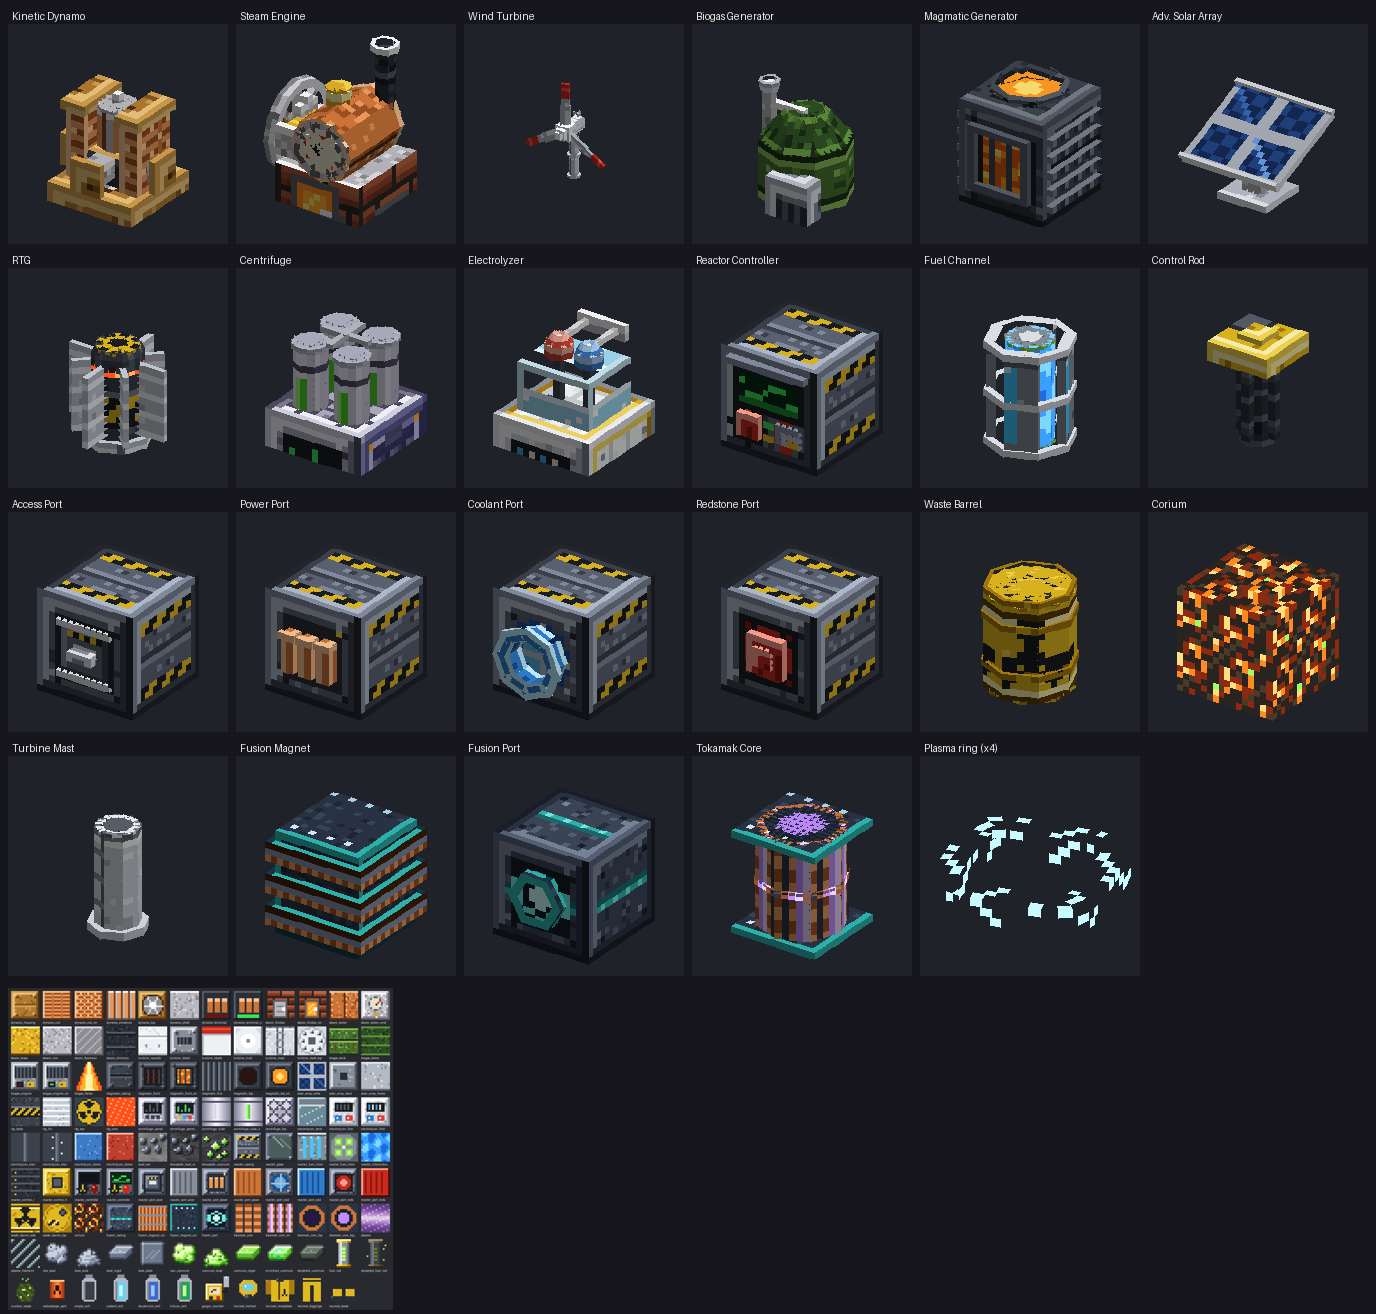
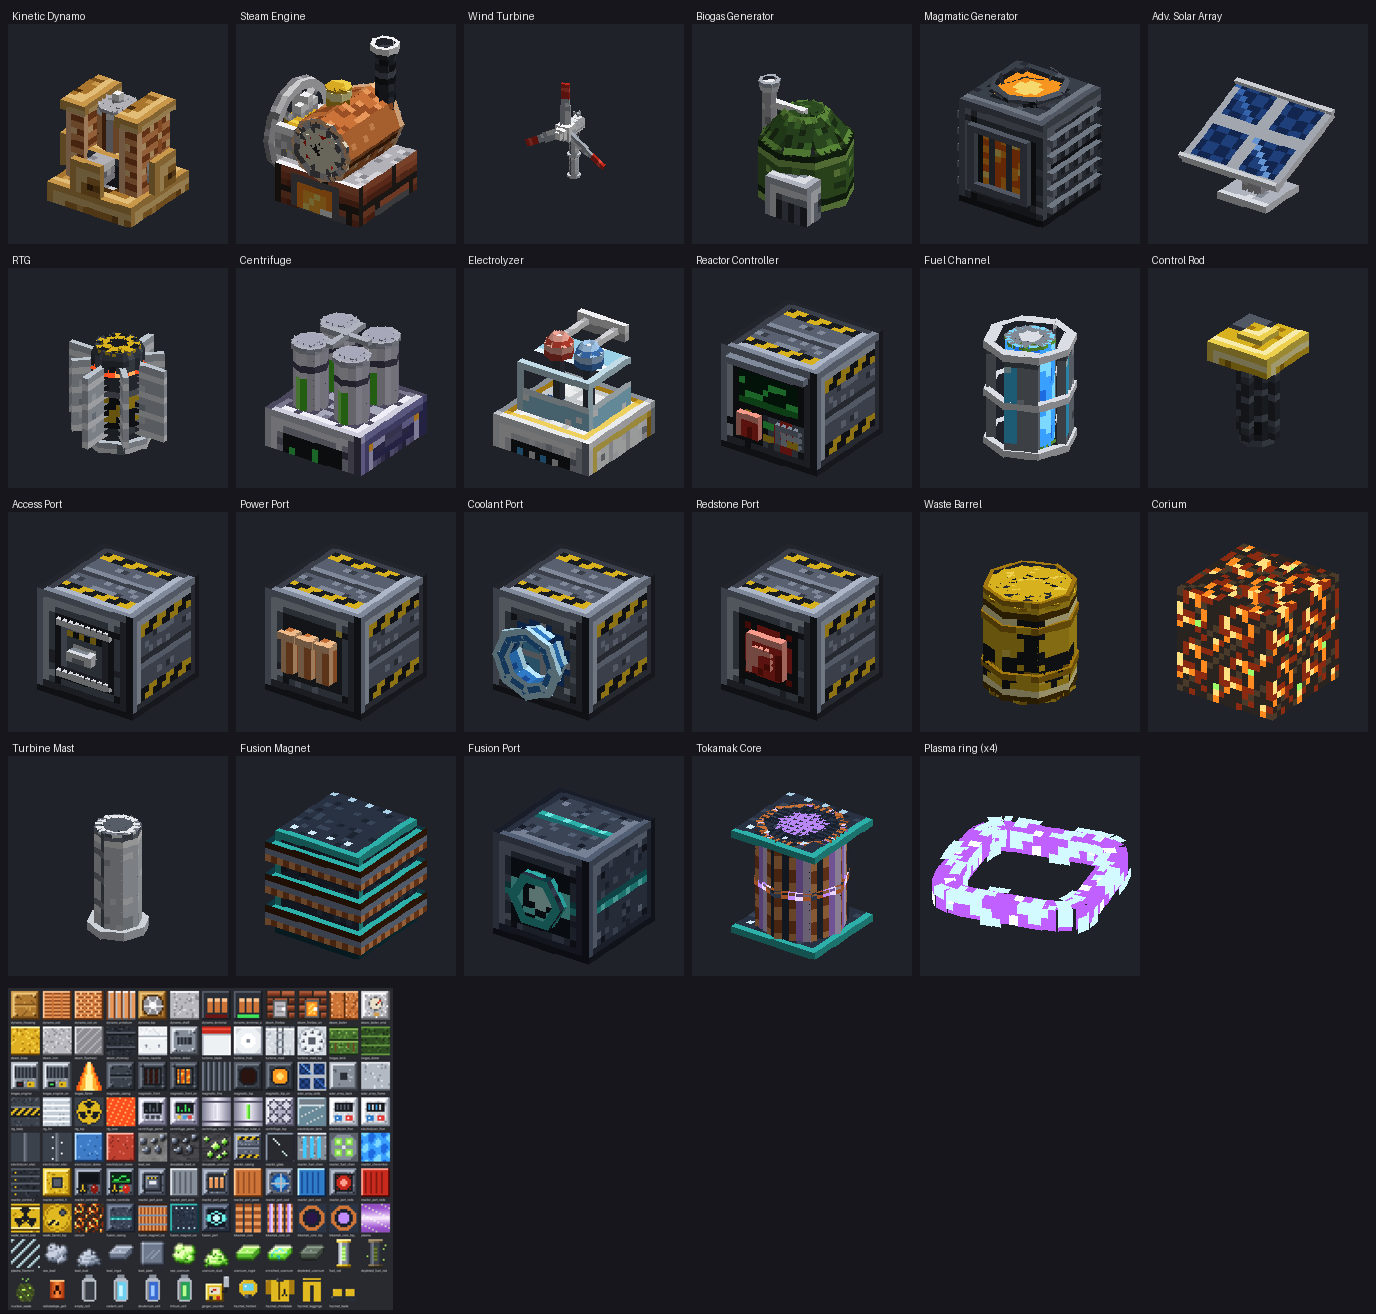
Power expansion: kinetic dynamo, steam engine, wind turbine, biogas, magmatic, solar array, fission reactor with radiation/hazmat/meltdown, RTG, fusion tokamak (planets WIP included)
Claude-Session: https://claude.ai/code/session_01SnzqTvBuYSofLuoR29zXXc

diff --git a/tools/features/power_textures.py b/tools/features/power_textures.py
@@ -596,14 +596,13 @@ def reactor_casing(rng):
 
 
 def reactor_glass():
-    """Thick leaded glass: almost clear with a faint green tint, a thin frame and two glints."""
+    """Thick leaded glass: a thin lead frame and a few glints on clear pane (cutout, so what burns
+    behind it, like a tokamak's plasma, always shows through)."""
     t = tex()
-    for y in range(16):
-        for x in range(16):
-            t.set(x, y, C("#C8F0E0", 38))
     for i in range(3, 7):
-        t.set(i + 1, i, C("#FFFFFF", 120))
-        t.set(i + 7, i + 6, C("#FFFFFF", 90))
+        t.set(i + 1, i, C("#E8FFF6"))
+    for i in range(9, 12):
+        t.set(i, i + 1, C("#D0F4E8"))
     bevel(t, 0, 0, 15, 15, LEAD[3], LEAD[0])
     for x, y in ((0, 0), (15, 0), (0, 15), (15, 15)):
         t.set(x, y, LEAD[1])
@@ -825,13 +824,14 @@ def tokamak_top(rng, on):
 
 
 def plasma():
+    """The plasma: a white-hot core fading to violet at the edge (translucent, drawn full-bright)."""
     t = tex()
     for y in range(16):
         for x in range(16):
             v = abs(y - 7.5) / 8
-            a = int(235 - 150 * v)
-            col = mix(C("#FFE8FF"), C("#B050FF"), min(1, v * 1.6))
-            if (x + y * 2) % 7 == 0:
+            a = int(255 - 90 * v)
+            col = mix(C("#FFF4FF"), C("#C060FF"), min(1, v * 1.5))
+            if (x * 3 + y * 5) % 11 == 0:
                 col = C("#FFFFFF")
             t.set(x, y, (col[0], col[1], col[2], a))
     return t
@@ -842,7 +842,7 @@ def plasma_filament():
     for y in range(16):
         for x in range(16):
             if (x + y) % 6 in (0, 1):
-                t.set(x, y, (200, 250, 255, 190 if (x + y) % 6 == 0 else 110))
+                t.set(x, y, (210, 250, 255, 230 if (x + y) % 6 == 0 else 150))
     return t
 
 
@@ -1001,7 +1001,7 @@ def hazmat_armor():
     for y in range(32):
         for x in range(64):
             r = rng.random()
-            main.set(x, y, Y[1] if r < 0.06 else Y[3] if r < 0.1 else Y[2])
+            main.set(x, y, mix(Y[2], Y[1], 0.35) if r < 0.03 else mix(Y[2], Y[3], 0.4) if r < 0.06 else Y[2])
     # visor on the helmet front (8..15, 8..15)
     main.rect(9, 10, 14, 13, C("#5AC8E0"))
     main.rect(10, 11, 11, 11, C("#FFFFFF"))
@@ -1021,7 +1021,7 @@ def hazmat_armor():
     for y in range(32):
         for x in range(64):
             r = rng.random()
-            legs.set(x, y, Y[1] if r < 0.06 else Y[3] if r < 0.1 else Y[2])
+            legs.set(x, y, mix(Y[2], Y[1], 0.35) if r < 0.03 else mix(Y[2], Y[3], 0.4) if r < 0.06 else Y[2])
     # boots region of the main layer (legs 0..15, 16..31) darker soles
     for x in range(0, 16):
         for y in (30, 31):

diff --git a/src/main/java/net/juli2kapo/factoryascent/nuclear/ReactorControllerBlockEntity.java b/src/main/java/net/juli2kapo/factoryascent/nuclear/ReactorControllerBlockEntity.java
@@ -297,7 +297,11 @@ public class ReactorControllerBlockEntity extends BlockEntity implements MenuPro
             for (BlockPos p : structure.interiorBlocks()) level.setBlock(p, net.minecraft.world.level.block.Blocks.AIR.defaultBlockState(), Block.UPDATE_ALL);
             if (power > 0) level.explode(null, c.getX() + 0.5, c.getY() + 0.5, c.getZ() + 0.5, power, true, Level.ExplosionInteraction.BLOCK);
             if (corium) {
-                for (BlockPos p : channels) pour(level, p);        // the melt runs down into a pool
+                // the melt runs down into a pool on the crater floor
+                for (int i = 0; i < channels.size(); i++) {
+                    int[] o = POOL[i % POOL.length];
+                    pour(level, c.offset(o[0], 0, o[1]));
+                }
                 var random = level.getRandom();
                 for (int i = 0; i < 2 + channels.size() / 4; i++) {  // and splashes out of the breach
                     pour(level, c.offset(random.nextInt(9) - 4, random.nextInt(3), random.nextInt(9) - 4));
@@ -309,6 +313,10 @@ public class ReactorControllerBlockEntity extends BlockEntity implements MenuPro
         }
         if (!isRemoved()) updateActive(level, false);
     }
+
+    /** Where the molten core spreads, from the middle of the crater outwards. */
+    private static final int[][] POOL = {{0, 0}, {1, 0}, {0, 1}, {-1, 0}, {0, -1}, {1, 1}, {-1, 1}, {1, -1}, {-1, -1}, {2, 0}, {0, 2},
+            {-2, 0}, {0, -2}, {2, 1}, {1, 2}, {-1, 2}, {-2, 1}, {-2, -1}, {-1, -2}, {1, -2}, {2, -1}};
 
     /** Drops a block of corium from {@code p} down onto whatever is below. */
     private static void pour(ServerLevel level, BlockPos p) {

diff --git a/src/main/java/net/juli2kapo/factoryascent/space/client/StationScreens.java b/src/main/java/net/juli2kapo/factoryascent/space/client/StationScreens.java
@@ -158,18 +158,18 @@ final class StationScreens {
             int[] earth = onOrbit(cx, cy, earthR, t * 2 * Math.PI / 8 + 0.4);
             int[] mars = onOrbit(cx, cy, marsR, t * 2 * Math.PI / 15 + 2.2);
             int[] jupiter = onOrbit(cx, cy, jupiterR, t * 2 * Math.PI / 95 + 4.0);
-            int[] moon = onOrbit(earth[0], earth[1], 7, t * 2 * Math.PI * 1.2);
-            int[] io = onOrbit(jupiter[0], jupiter[1], 9, t * 2 * Math.PI * 3);
+            int[] moon = onOrbit(earth[0], earth[1], 10, t * 2 * Math.PI * 1.2);
+            int[] io = onOrbit(jupiter[0], jupiter[1], 11, t * 2 * Math.PI * 3);
             dot(g, earth[0], earth[1], 3, 0xFF3E8EE8);
             dot(g, moon[0], moon[1], 1, Planet.MOON.color);
             dot(g, mars[0], mars[1], 2, Planet.MARS.color);
             dot(g, jupiter[0], jupiter[1], 5, 0xFFD8B080);
             dot(g, io[0], io[1], 1, Planet.IO.color);
             label(g, Component.translatable("planet.factoryascent.earth"), earth[0], earth[1] + 5);
-            label(g, Planet.MOON.displayName(), moon[0], moon[1] - 11);
+            g.text(font, Planet.MOON.displayName(), moon[0] + 4, moon[1] - 4, MUTED, false);
             label(g, Planet.MARS.displayName(), mars[0], mars[1] + 4);
             label(g, Component.translatable("planet.factoryascent.jupiter"), jupiter[0], jupiter[1] + 7);
-            label(g, Planet.IO.displayName(), io[0], io[1] - 11);
+            g.text(font, Planet.IO.displayName(), io[0] + 4, io[1] - 4, MUTED, false);
             // you are here
             int[] here = where(chart.here(), earth, moon, mars, io);
             if (here != null && (mc.player == null || mc.player.tickCount / 10 % 2 == 0)) {

diff --git a/src/main/java/net/juli2kapo/factoryascent/space/SuitItems.java b/src/main/java/net/juli2kapo/factoryascent/space/SuitItems.java
@@ -148,6 +148,9 @@ public final class SuitItems {
         public void appendHoverText(ItemStack stack, TooltipContext context, TooltipDisplay display,
                                     Consumer<Component> tooltip, TooltipFlag flag) {
             tooltip.accept(oxygenLine(oxygen(stack)));
+            if (net.juli2kapo.factoryascent.space.planet.ThermalLiningItem.lined(stack)) {
+                tooltip.accept(Component.translatable("tooltip.factoryascent.thermal_lining_on").withStyle(ChatFormatting.GOLD));
+            }
             tooltip.accept(Component.translatable("tooltip.factoryascent.suit_chest").withStyle(ChatFormatting.DARK_AQUA));
             tooltip.accept(Component.translatable("tooltip.factoryascent.suit_refill").withStyle(ChatFormatting.DARK_GRAY));
         }

diff --git a/tools/features/planets_textures.py b/tools/features/planets_textures.py
@@ -31,7 +31,7 @@ O = _orbital()
 rgb, mix, shade, Canvas, noisy = O.rgb, O.mix, O.shade, O.Canvas, O.noisy
 OUTLINE = O.OUTLINE
 
-REGOLITH = [rgb(h) for h in ("#BEBEC2", "#A9A9AE", "#9A9A9F", "#86868C", "#6C6C72")]
+REGOLITH = [rgb(h) for h in ("#ABABB0", "#96969B", "#88888D", "#75757A", "#5E5E63")]
 MOONROCK = [rgb(h) for h in ("#9C9CA2", "#7C7C83", "#65656C", "#505057", "#3A3A40")]
 MARS = [rgb(h) for h in ("#E89A62", "#CC7444", "#B05E34", "#8E4828", "#6A341E")]
 MARSROCK = [rgb(h) for h in ("#B0644A", "#944E38", "#7C402E", "#643224", "#48241A")]

diff --git a/src/main/java/net/juli2kapo/factoryascent/space/client/DustStormClient.java b/src/main/java/net/juli2kapo/factoryascent/space/client/DustStormClient.java
@@ -46,7 +46,7 @@ final class DustStormClient {
 
     static void fog(ViewportEvent.RenderFog event) {
         Minecraft mc = Minecraft.getInstance();
-        if (mc.level == null || event.getType() != FogType.NONE) return;
+        if (mc.level == null || (event.getType() != FogType.ATMOSPHERIC && event.getType() != FogType.NONE)) return;
         float storm = storm(mc.level, (float) event.getPartialTick());
         if (storm <= 0.01f) return;
         float far = event.getFarPlaneDistance();
